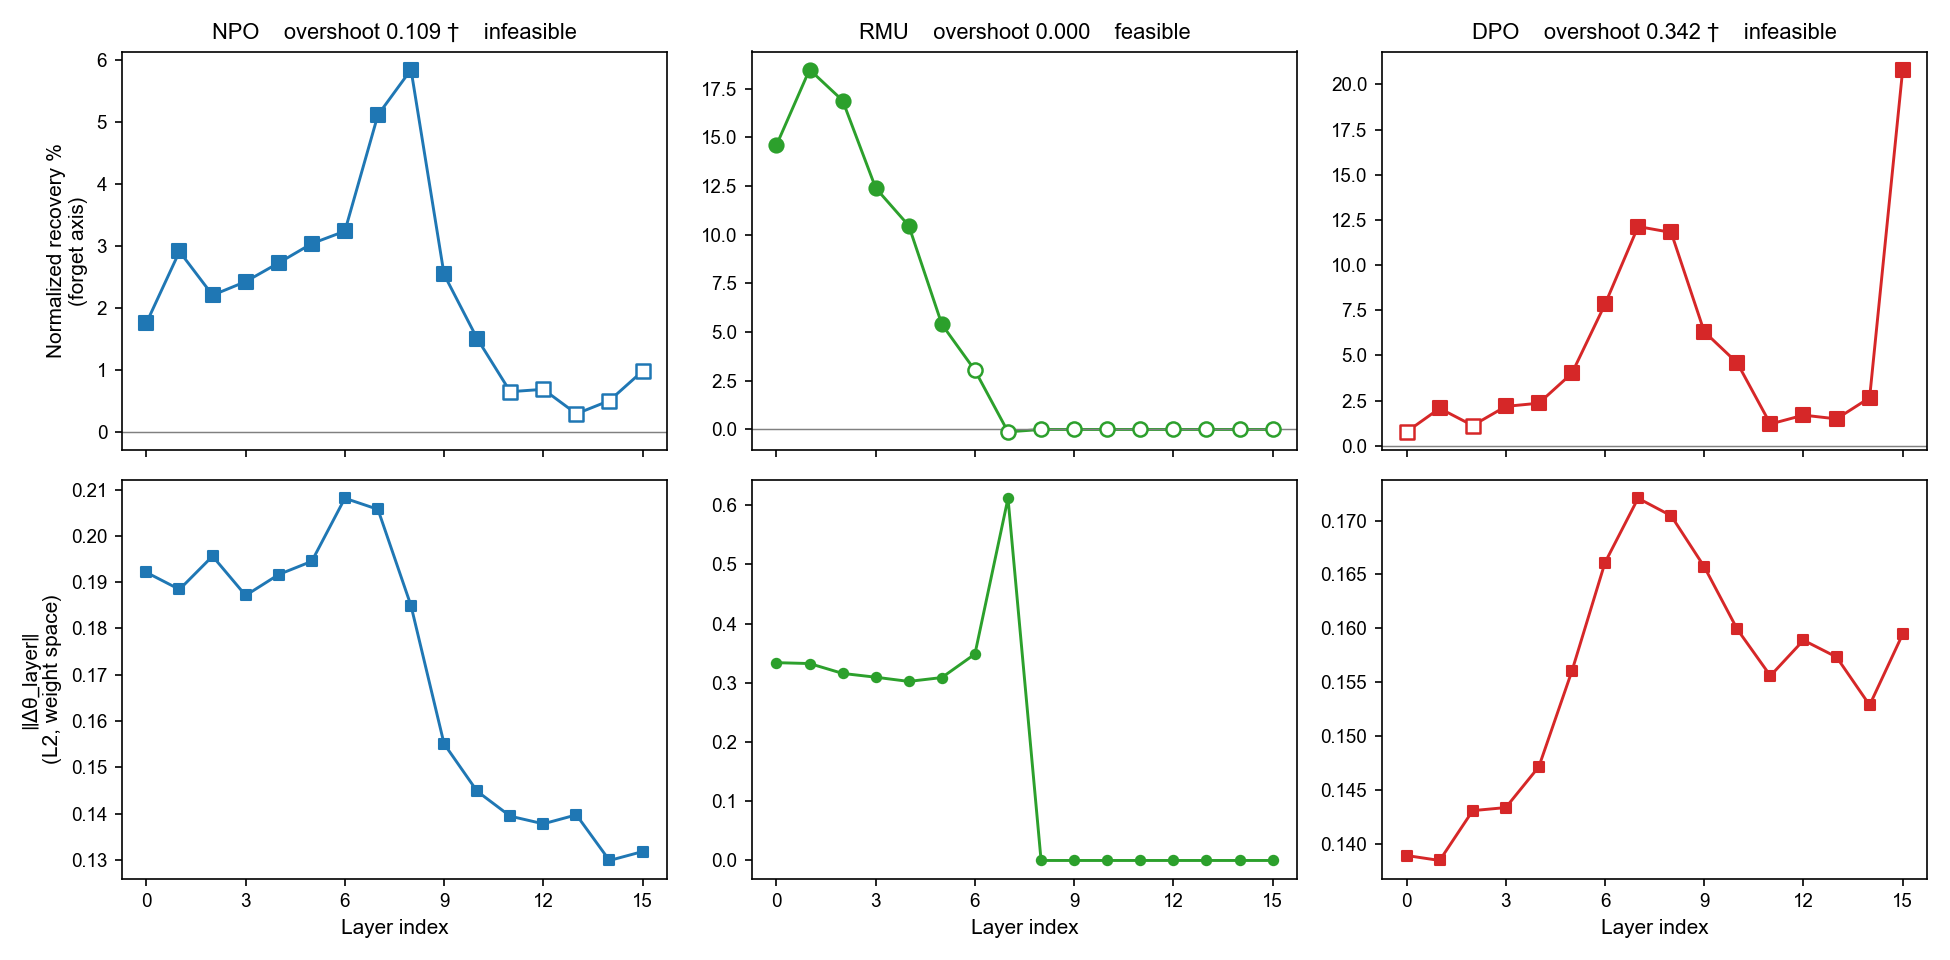
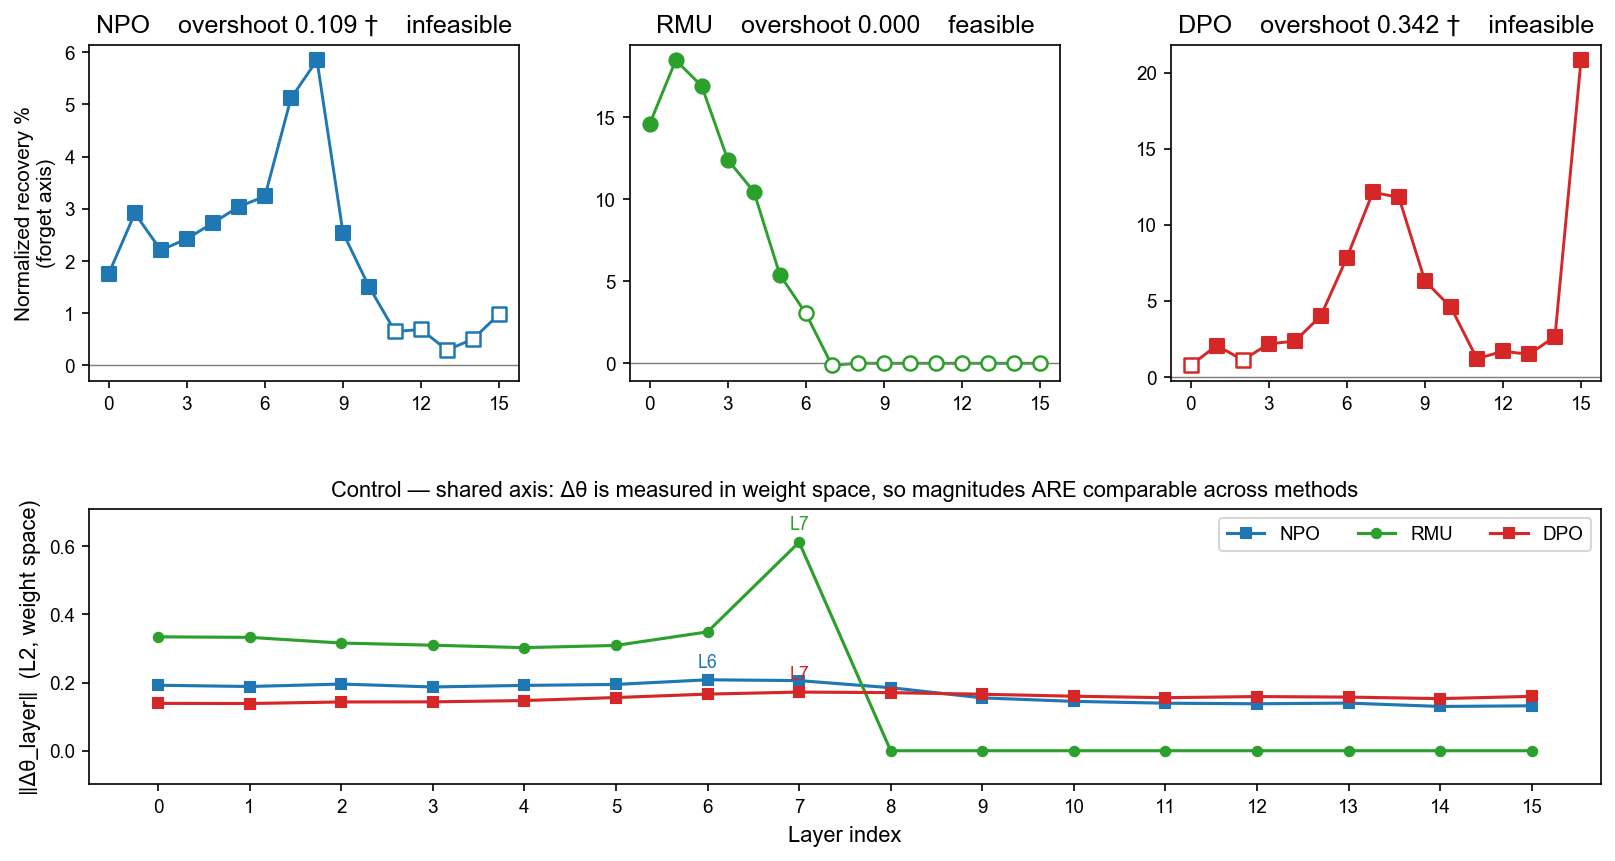
Put the weight-change control back on one shared axis
The bottom row of figure 1 was faceted along with the top row, giving each
method its own y-axis. That was wrong for this row. Normalized recovery has
a different denominator per method and genuinely cannot be compared across
panels, which is why the top row is faceted. The L2 norm of a layer's weight
change is not like that: it is measured in weight space and is already on one
scale for all three methods, and comparing those magnitudes is the whole job
of the control.

Faceted, DPO's real 0.034 spread and RMU's real 0.612 spike rendered at the
same height, so the control no longer controlled anything. On one shared
linear axis the reading is honest: RMU concentrates on layer 7 at roughly
three times any other layer and drops to exactly zero from layer 8 on, which
puts the positive control in the same panel; NPO and DPO are nearly flat.
Each method's peak layer is annotated, so the within-method peak stays
readable even where a line looks flat.

No log scale: RMU's layers 8-15 are exactly zero, and a log axis would drop
those eight points - they are the positive control and have to stay visible.

Also restores integer x ticks on the top row. Splitting the rows into two
gridspec cells dropped the sharex link that had been supplying them, so the
top row silently fell back to 2.5-step ticks; layer indices are integers.
Uses layers[::3] to match figure 2 tick-for-tick rather than merely being
integer-valued. Panel titles go 10.5 -> 12.

diff --git a/scripts/lib/make_figures.py b/scripts/lib/make_figures.py
@@ -131,7 +131,14 @@ def sig(method, layer, axis):
 # 叠图会诱导"谁恢复得更多"这类不合法的跨方法比较——RMU 视觉最高很大程度只是分母最小。
 # 分面后：层间形状比较（合法）保留，高度比较（不合法）视觉上做不到。
 # ---------------------------------------------------------------------------
-fig, axes = plt.subplots(2, 3, figsize=(13, 6.4), sharex=True)
+# 2026-09-14：下半栏改回单面板。上半栏（归一化 recovery）分母各不相同、不可跨方法比，
+# 所以必须分面；‖Δθ‖ 是权重空间 L2，三方法本来就在同一把尺子上——它是全图唯一一处
+# 合法的跨方法量级比较，也正是"改得最多的层"这个对照的全部作用。分面给它三条独立 y 轴，
+# 会把 DPO 真实 0.034 的起伏和 RMU 真实 0.612 的尖峰渲染成同样高度，对照就不对照任何东西了。
+fig = plt.figure(figsize=(13, 6.4))
+_gs = fig.add_gridspec(2, 3, height_ratios=[1.0, 0.82], hspace=0.42, wspace=0.26)
+axes = [[fig.add_subplot(_gs[0, c]) for c in range(3)]]
+ax_delta = fig.add_subplot(_gs[1, :])
 layers = list(range(N_LAYERS))
 for c, m in enumerate(METHODS):
     ax = axes[0][c]
@@ -144,24 +151,33 @@ for c, m in enumerate(METHODS):
                facecolors="white", edgecolors=COLOR[m], marker=MARKER[m], s=46,
                linewidths=1.2, zorder=3)
     ax.axhline(0, color="gray", linewidth=0.7)
-    ax.set_title(panel_title(m), fontsize=10.5)
+    ax.set_title(panel_title(m), fontsize=12)
+    # 上下排拆成两个 gridspec 之后 sharex 没了，上排会自动取 2.5 步长——层索引没有 2.5 层。
+    # 用 layers[::3] 而不是 MaxNLocator(integer=True)，是为了跟附录 A4 那三格的刻度逐字一致。
+    ax.set_xticks(layers[::3])
     ax.tick_params(labelsize=9)
     if c == 0:
         ax.set_ylabel("Normalized recovery %\n(forget axis)", fontsize=10)
 
-for c, m in enumerate(METHODS):
-    ax = axes[1][c]
+for m in METHODS:
     delta = [raw_delta(m, L) for L in layers]
-    ax.plot(layers, delta, "-", color=COLOR[m], linewidth=1.4)
-    ax.scatter(layers, delta, color=COLOR[m], marker=MARKER[m], s=20)
-    ax.set_xticks(layers[::3])
-    ax.tick_params(labelsize=9)
-    ax.set_xlabel("Layer index", fontsize=10)
-    if c == 0:
-        ax.set_ylabel("‖Δθ_layer‖\n(L2, weight space)", fontsize=10)
+    ax_delta.plot(layers, delta, "-", color=COLOR[m], linewidth=1.5,
+                  marker=MARKER[m], markersize=4.5, label=m)
+    # 每个方法自己的峰在哪一层，共享轴下 DPO 那条几乎贴平，标出来才读得到
+    pk = max(layers, key=lambda L: delta[L])
+    ax_delta.annotate(f"L{pk}", xy=(pk, delta[pk]), xytext=(0, 6),
+                      textcoords="offset points", ha="center",
+                      fontsize=8.5, color=COLOR[m])
+ax_delta.set_xticks(layers)
+ax_delta.tick_params(labelsize=9)
+ax_delta.set_xlabel("Layer index", fontsize=10.5)
+ax_delta.set_ylabel("‖Δθ_layer‖  (L2, weight space)", fontsize=10.5)
+ax_delta.set_title("Control — shared axis: Δθ is measured in weight space, so magnitudes "
+                   "ARE comparable across methods", fontsize=10.5)
+ax_delta.legend(fontsize=9, loc="upper right", ncol=3, frameon=True)
+ax_delta.margins(y=0.16)
 
-fig.tight_layout()
-fig.savefig(FIGDIR / "fig1_recovery_vs_delta.png", dpi=150)
+fig.savefig(FIGDIR / "fig1_recovery_vs_delta.png", dpi=150, bbox_inches="tight")
 plt.close(fig)
 
 
@@ -182,7 +198,7 @@ for c, m in enumerate(METHODS):
                facecolors="white", edgecolors=COLOR[m], marker=MARKER[m], s=46,
                linewidths=1.2, zorder=3)
     ax.axhline(0, color="gray", linewidth=0.7)
-    ax.set_title(panel_title(m), fontsize=10.5)
+    ax.set_title(panel_title(m), fontsize=12)
     ax.set_xticks(layers[::3])
     ax.tick_params(labelsize=9)
     ax.set_xlabel("Layer index", fontsize=10)
